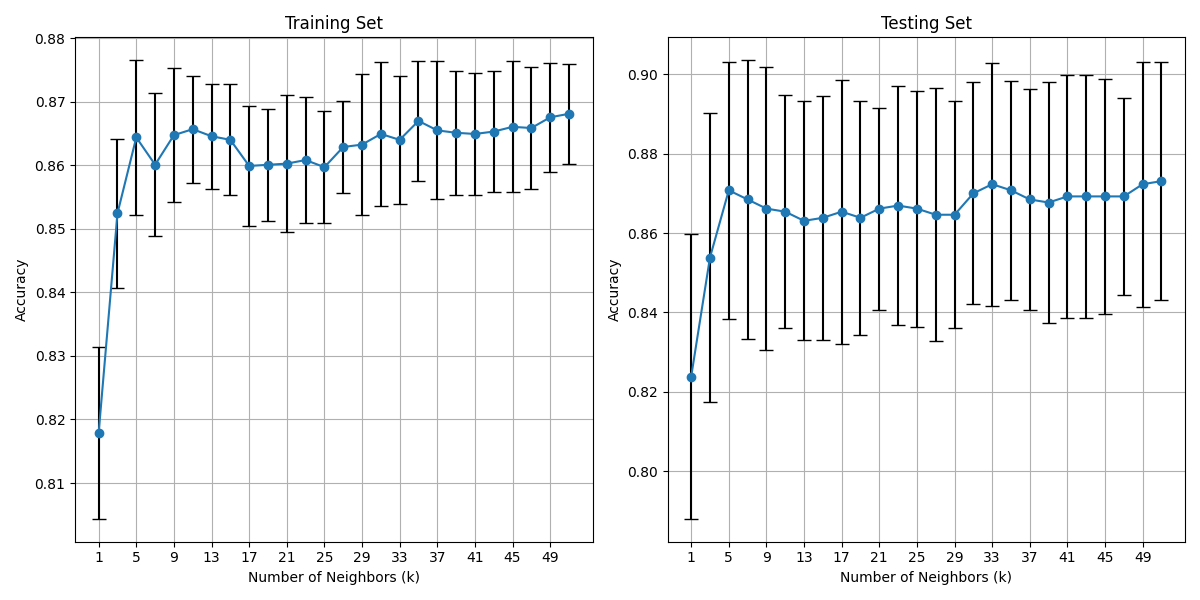
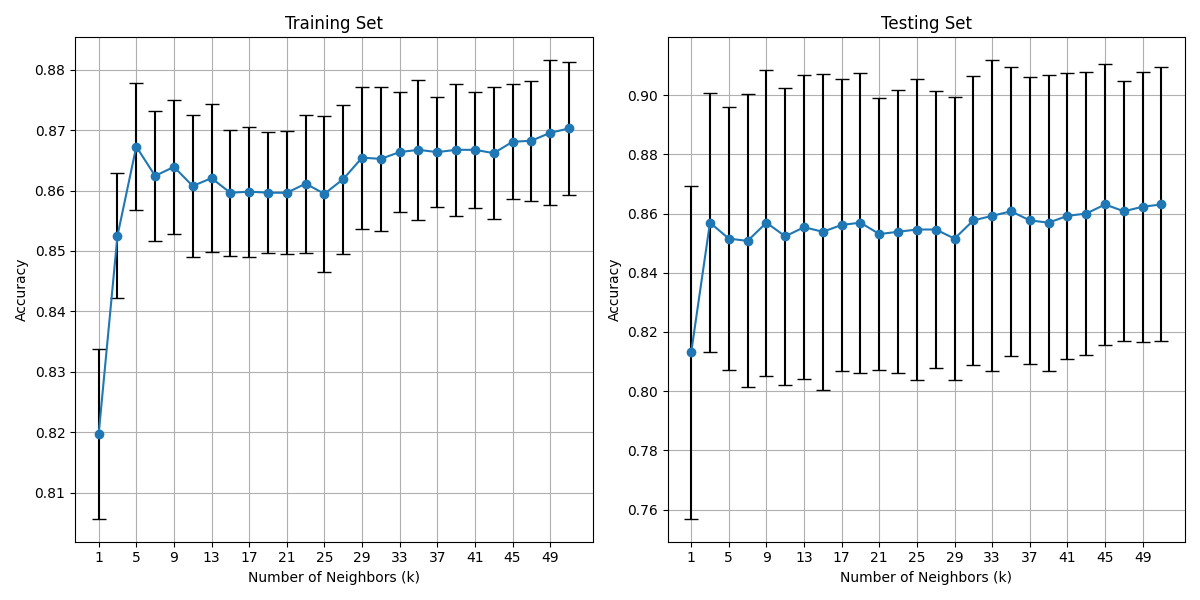
hyperlinks to datasets

diff --git a/william/knn.py b/william/knn.py
@@ -263,7 +263,6 @@ def accuracy_stats(accuracy):
 
 def plot(df_train, df_test, show=False):
     title = args.path.replace('.csv', '')
-    title = title.replace('../dataset/', '')
 
     ks = df_train.index
 

diff --git a/william/credit_approval_results.md b/william/credit_approval_results.md
@@ -1,71 +1,71 @@
 ## KNN
 
-### `python knn.py -p ../dataset/credit_approval_adj.csv -n 10`
+### `python knn.py -p credit_approval_adj.csv -n 10`
 
 ```
 stats_train:
         mean      high       low       std
-1   0.817916  0.842301  0.799257  0.013551
-3   0.852467  0.867925  0.830827  0.011706
-5   0.864418  0.888268  0.845865  0.012148
-7   0.860120  0.881262  0.845725  0.011224
-9   0.864778  0.881262  0.851301  0.010565
-11  0.865714  0.878505  0.853383  0.008447
-13  0.864602  0.875233  0.851504  0.008236
-15  0.864034  0.876636  0.855263  0.008749
-17  0.859925  0.873840  0.845865  0.009455
-19  0.860106  0.871985  0.845865  0.008861
-21  0.860291  0.873840  0.840226  0.010776
-23  0.860853  0.875696  0.843985  0.009918
-25  0.859730  0.871028  0.842105  0.008825
-27  0.862909  0.873840  0.849624  0.007265
-29  0.863283  0.877551  0.842105  0.011155
-31  0.864962  0.875696  0.842105  0.011396
-33  0.864035  0.877551  0.849442  0.010068
-35  0.867016  0.880819  0.853383  0.009388
-37  0.865523  0.883117  0.853160  0.010850
-39  0.865148  0.884972  0.853383  0.009758
-41  0.864959  0.881262  0.851504  0.009568
-43  0.865340  0.881262  0.855263  0.009491
-45  0.866082  0.883117  0.851504  0.010300
-47  0.865897  0.878957  0.853160  0.009559
-49  0.867583  0.877551  0.853160  0.008605
-51  0.868137  0.878957  0.857143  0.007883
+1   0.819737  0.844156  0.805147  0.014040
+3   0.852530  0.871324  0.840074  0.010326
+5   0.867259  0.884191  0.854991  0.010537
+7   0.862422  0.884191  0.848598  0.010713
+9   0.863910  0.882353  0.851024  0.011044
+11  0.860749  0.878676  0.847300  0.011722
+13  0.862052  0.882353  0.849162  0.012264
+15  0.859622  0.880515  0.847300  0.010390
+17  0.859817  0.876636  0.845438  0.010730
+19  0.859638  0.875000  0.847300  0.010022
+21  0.859629  0.876838  0.849162  0.010166
+23  0.861137  0.878676  0.845588  0.011434
+25  0.859456  0.880515  0.841912  0.012916
+27  0.861891  0.880515  0.843750  0.012319
+29  0.865436  0.883677  0.847426  0.011743
+31  0.865240  0.882353  0.847426  0.011871
+33  0.866364  0.878505  0.851103  0.009954
+35  0.866730  0.880374  0.849265  0.011632
+37  0.866354  0.878676  0.854779  0.009054
+39  0.866735  0.882353  0.849265  0.010954
+41  0.866732  0.882353  0.854749  0.009615
+43  0.866188  0.881801  0.851103  0.010965
+45  0.868062  0.879925  0.849265  0.009494
+47  0.868237  0.880515  0.852941  0.009893
+49  0.869546  0.882353  0.849265  0.012005
+51  0.870276  0.885553  0.854779  0.011027
 stats_test:
         mean      high       low       std
-1   0.823846  0.884615  0.776923  0.035797
-3   0.853846  0.915385  0.807692  0.036443
-5   0.870769  0.923077  0.823077  0.032393
-7   0.868462  0.923077  0.823077  0.035054
-9   0.866154  0.923077  0.823077  0.035566
-11  0.865385  0.915385  0.830769  0.029291
-13  0.863077  0.907692  0.823077  0.030078
-15  0.863846  0.915385  0.830769  0.030780
-17  0.865385  0.923077  0.830769  0.033284
-19  0.863846  0.907692  0.823077  0.029470
-21  0.866154  0.907692  0.830769  0.025435
-23  0.866923  0.915385  0.815385  0.030132
-25  0.866154  0.915385  0.815385  0.029726
-27  0.864615  0.907692  0.800000  0.031861
-29  0.864615  0.900000  0.815385  0.028599
-31  0.870000  0.915385  0.830769  0.027959
-33  0.872308  0.915385  0.823077  0.030598
-35  0.870769  0.900000  0.823077  0.027569
-37  0.868462  0.907692  0.815385  0.027723
-39  0.867692  0.907692  0.807692  0.030295
-41  0.869231  0.907692  0.807692  0.030555
-43  0.869231  0.907692  0.807692  0.030555
-45  0.869231  0.907692  0.807692  0.029682
-47  0.869231  0.907692  0.823077  0.024860
-49  0.872308  0.923077  0.823077  0.030812
-51  0.873077  0.923077  0.823077  0.029957
+1   0.813077  0.892308  0.723077  0.056183
+3   0.856923  0.938462  0.800000  0.043845
+5   0.851538  0.915385  0.769231  0.044419
+7   0.850769  0.938462  0.769231  0.049481
+9   0.856923  0.938462  0.769231  0.051691
+11  0.852308  0.930769  0.769231  0.050089
+13  0.855385  0.938462  0.776923  0.051385
+15  0.853846  0.938462  0.769231  0.053417
+17  0.856154  0.930769  0.769231  0.049328
+19  0.856923  0.938462  0.769231  0.050663
+21  0.853077  0.923077  0.769231  0.046075
+23  0.853846  0.923077  0.769231  0.047833
+25  0.854615  0.923077  0.769231  0.050695
+27  0.854615  0.915385  0.769231  0.046783
+29  0.851538  0.915385  0.769231  0.047702
+31  0.857692  0.915385  0.776923  0.048684
+33  0.859231  0.938462  0.784615  0.052555
+35  0.860769  0.938462  0.792308  0.048846
+37  0.857692  0.930769  0.784615  0.048413
+39  0.856923  0.930769  0.776923  0.050010
+41  0.859231  0.938462  0.784615  0.048386
+43  0.860000  0.930769  0.784615  0.047943
+45  0.863077  0.938462  0.792308  0.047529
+47  0.860769  0.930769  0.792308  0.043883
+49  0.862308  0.938462  0.792308  0.045645
+51  0.863077  0.938462  0.792308  0.046268
 ```
 
 \newpage
 
 ## Random Forest
 
-### `python random_forest.py -p ../dataset/parkinsons.csv -bst true --random_state 42`
+### `python random_forest.py -p credit_approval_adj.csv -bst true --random_state 42`
 
 ```
 Random Forest Performance: 

diff --git a/william/parkinsons_results.md b/william/parkinsons_results.md
@@ -1,0 +1,81 @@
+## KNN
+
+### `python knn.py -p parkinsons.csv -n 10`
+
+```
+stats_train:
+        mean      high       low       std
+1   0.948165  0.969136  0.931250  0.012694
+3   0.928221  0.950617  0.905063  0.014418
+5   0.921991  0.944444  0.887500  0.015769
+7   0.915803  0.938272  0.888889  0.018272
+9   0.895177  0.925926  0.850000  0.025151
+11  0.873323  0.901235  0.831250  0.025882
+13  0.862107  0.882716  0.825000  0.015893
+15  0.847727  0.882716  0.812500  0.017902
+17  0.838382  0.851852  0.816456  0.012530
+19  0.831534  0.858025  0.796296  0.018746
+21  0.832198  0.851852  0.790123  0.017450
+23  0.835933  0.855346  0.814815  0.012733
+25  0.841535  0.864198  0.822785  0.012965
+27  0.844684  0.867925  0.820988  0.013602
+29  0.848414  0.870370  0.820988  0.015950
+31  0.848403  0.876543  0.827160  0.014660
+33  0.849020  0.864198  0.820988  0.014958
+35  0.844695  0.867925  0.783951  0.025491
+37  0.838453  0.864198  0.771605  0.031232
+39  0.837199  0.870370  0.771605  0.032483
+41  0.825956  0.864198  0.777778  0.029561
+43  0.819147  0.861635  0.771605  0.031614
+45  0.809697  0.858025  0.771605  0.030459
+47  0.800954  0.845679  0.771605  0.026428
+49  0.785992  0.820988  0.762500  0.019324
+51  0.779777  0.808642  0.763975  0.016135
+stats_test:
+        mean      high       low       std
+1   0.939474  1.000000  0.868421  0.048126
+3   0.921053  0.973684  0.868421  0.037216
+5   0.907895  0.947368  0.842105  0.033403
+7   0.907895  0.973684  0.868421  0.039717
+9   0.881579  0.947368  0.815789  0.046829
+11  0.857895  0.921053  0.789474  0.043330
+13  0.844737  0.921053  0.789474  0.040102
+15  0.828947  0.921053  0.763158  0.055824
+17  0.805263  0.894737  0.736842  0.048365
+19  0.802632  0.868421  0.736842  0.037729
+21  0.797368  0.842105  0.736842  0.027878
+23  0.810526  0.868421  0.763158  0.032349
+25  0.821053  0.894737  0.763158  0.044383
+27  0.821053  0.894737  0.789474  0.036800
+29  0.828947  0.894737  0.789474  0.041609
+31  0.828947  0.894737  0.789474  0.041609
+33  0.834211  0.894737  0.789474  0.043063
+35  0.828947  0.894737  0.789474  0.043419
+37  0.828947  0.894737  0.789474  0.041609
+39  0.823684  0.894737  0.789474  0.037319
+41  0.826316  0.894737  0.789474  0.035524
+43  0.823684  0.894737  0.763158  0.039327
+45  0.818421  0.868421  0.789474  0.026169
+47  0.805263  0.842105  0.789474  0.018400
+49  0.800000  0.842105  0.763158  0.025423
+51  0.800000  0.842105  0.763158  0.025423
+```
+
+\newpage
+
+## Random Forest
+
+### `python random_forest.py -p parkinsons.csv -bst true --random_state 42`
+
+```
+Random Forest Performance: 
+    accuracy  precision    recall        F1
+1   0.810688   0.752122  0.756743  0.743992
+5   0.861215   0.827278  0.789080  0.803977
+10  0.876606   0.853321  0.820192  0.829893
+20  0.902517   0.909036  0.837203  0.857684
+30  0.897389   0.902747  0.820651  0.848971
+40  0.902517   0.908428  0.830651  0.857514
+50  0.913171   0.924270  0.846322  0.871725
+```
+
